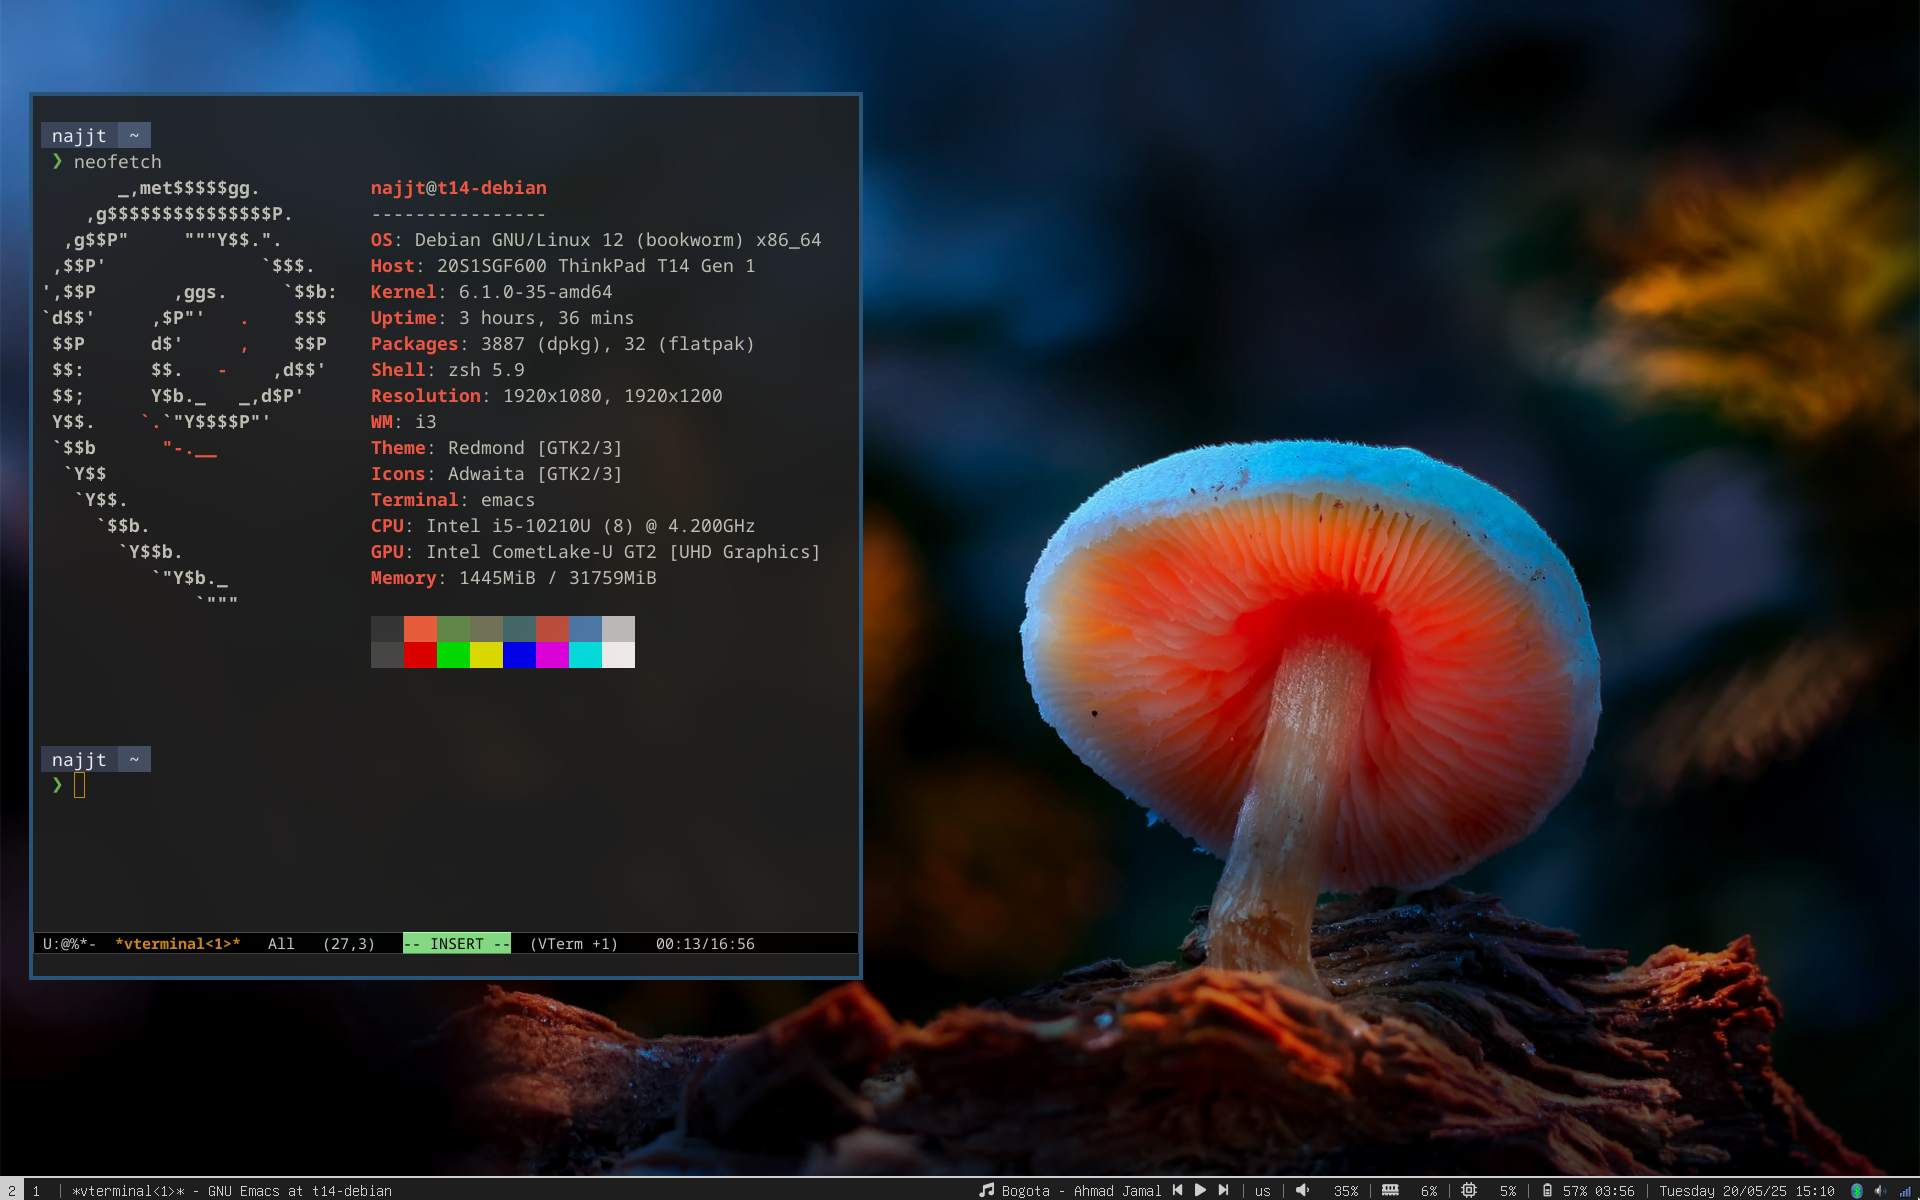
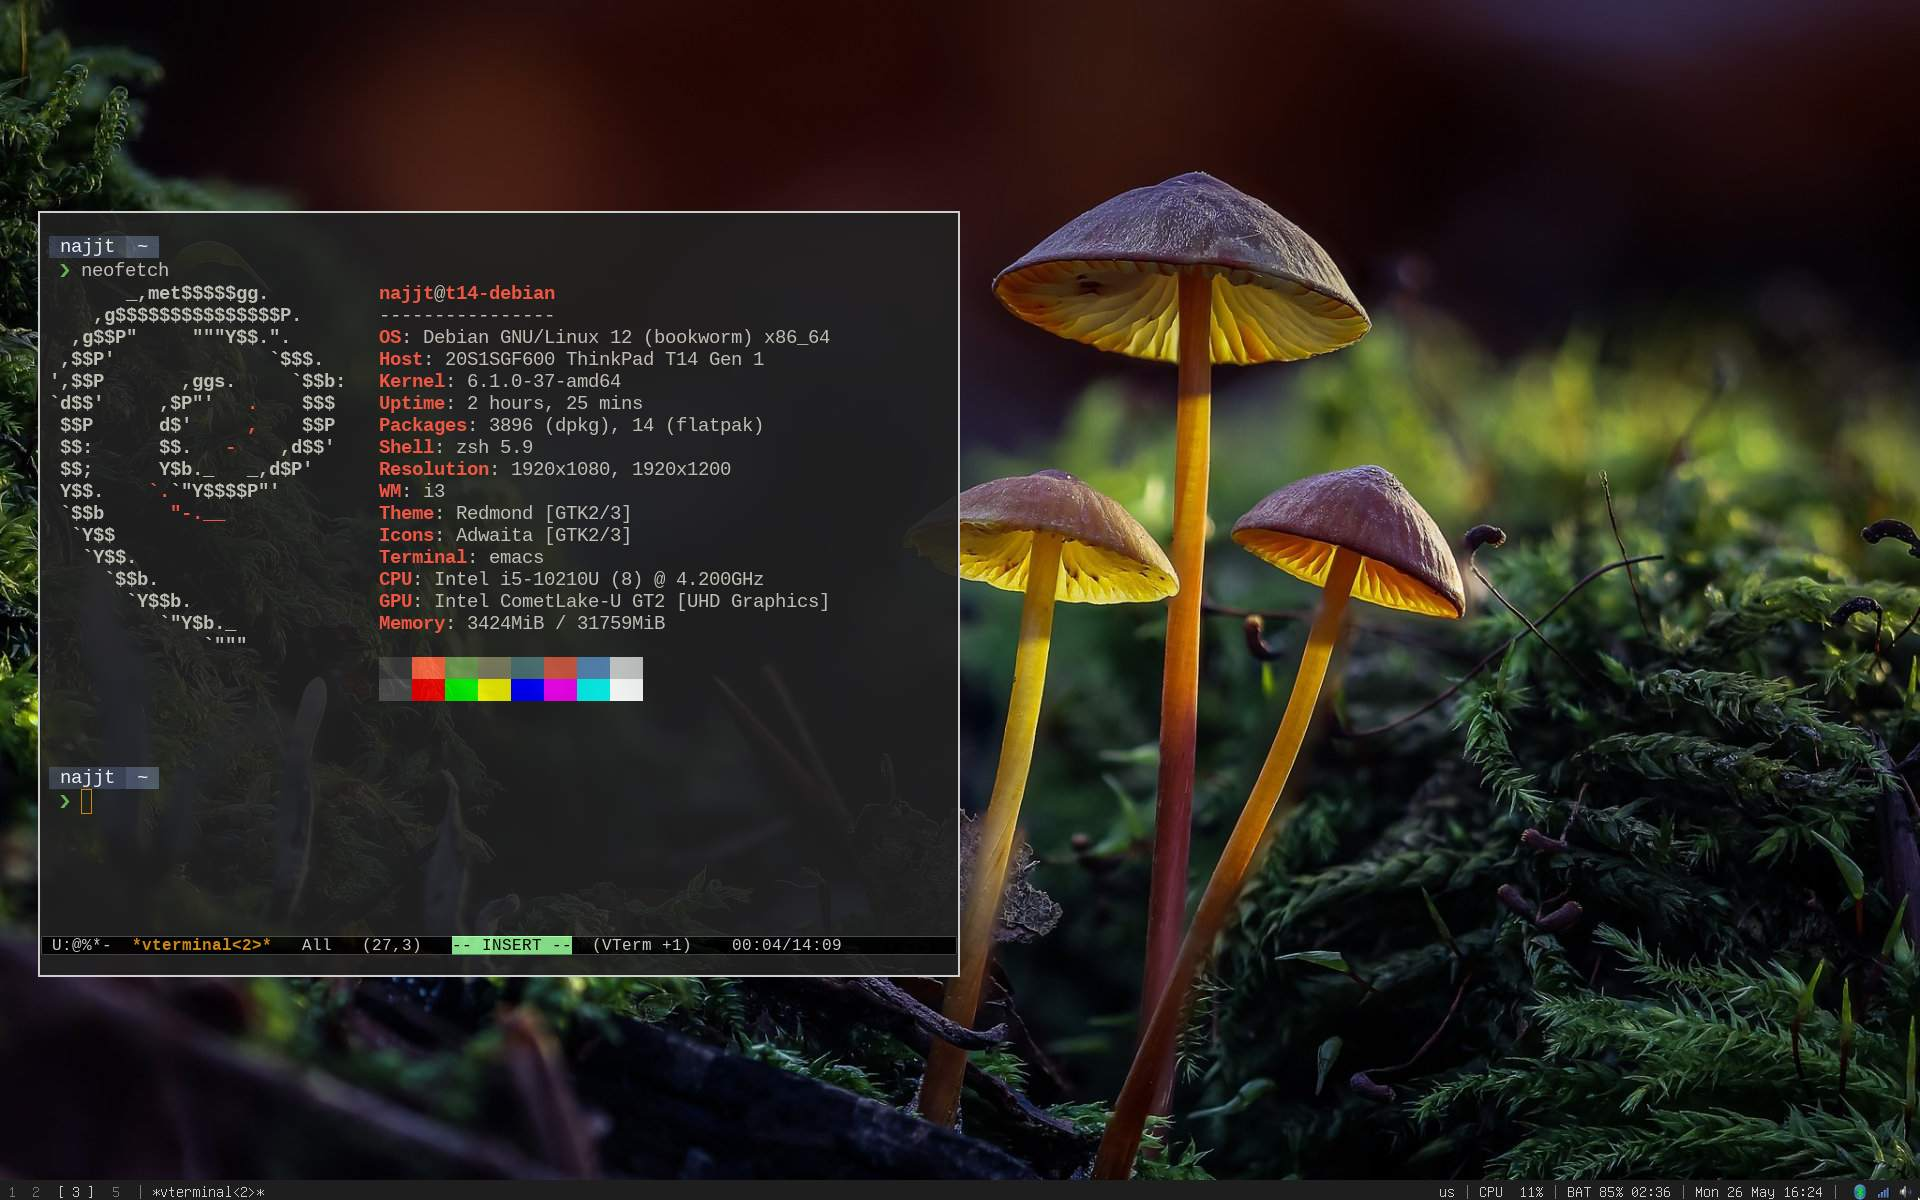
Add more screenshots, update old screenshot

diff --git a/README.md b/README.md
@@ -1,5 +1,8 @@
-Welcome to my dotfiles repository! I use [GNU Stow](https://www.gnu.org/software/stow/) to manage them.
+Welcome to my dotfiles repository! I use [GNU
+Stow](https://www.gnu.org/software/stow/) to manage them.  
 
-This is what my current i3 configuration [looks like](screenshot.jpg):  
+This is what my current i3 configuration looks like:  
 
 <img src="screenshot.jpg" alt="My i3 configuration" width="600"/>
+<img src="screenshot2.jpg" alt="My i3 configuration" width="600"/>
+<img src="screenshot3.jpg" alt="My i3 configuration" width="600"/>